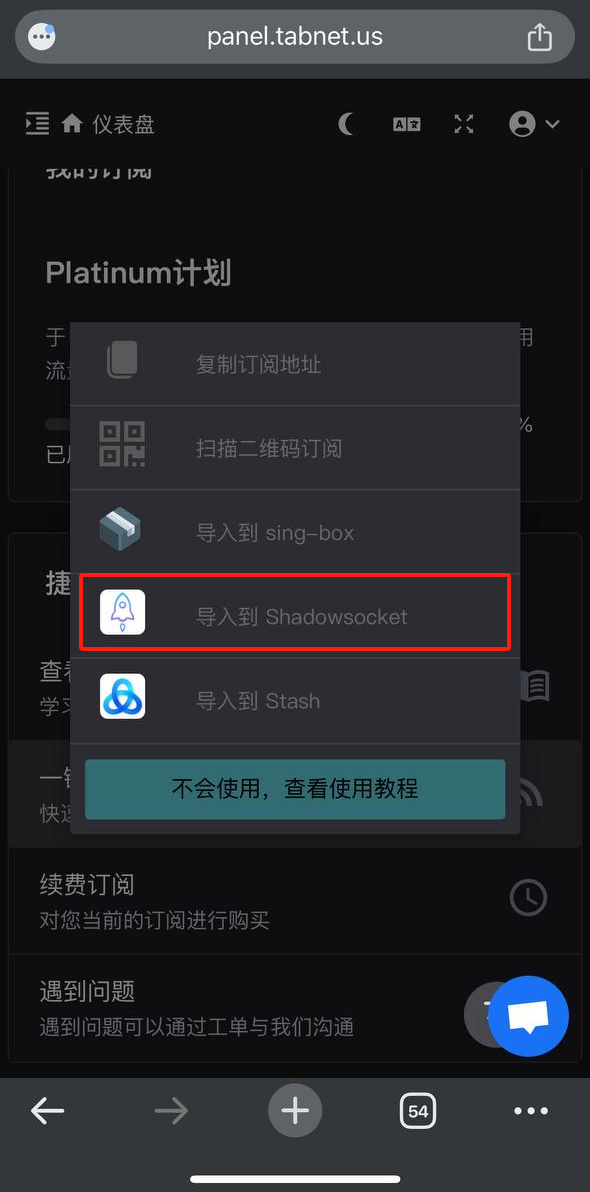
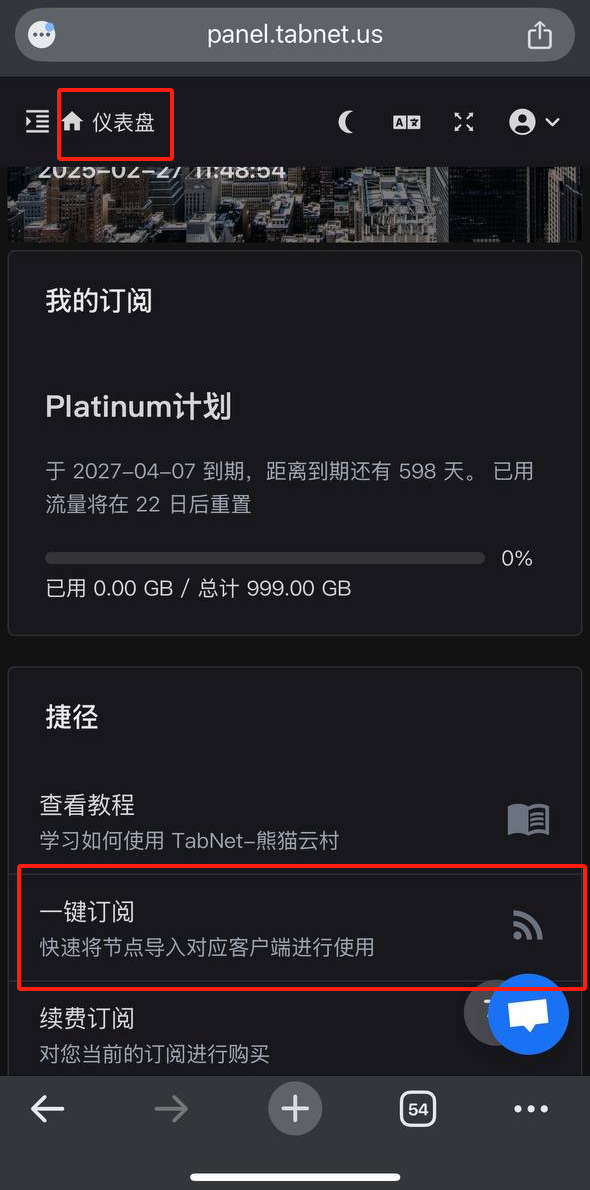
GITBOOK-48: No subject

diff --git a/android/clash-for-android-shi-yong-jiao-cheng.md b/android/clash-for-android-shi-yong-jiao-cheng.md
@@ -1,69 +1,94 @@
 # 📱 Clash for Android 使用教程
 
-{% hint style="success" %}
-**本教程适用于安卓、鸿蒙系统的平板及手机设备**
+## 目录
 
-该客户端仅支持Android 9 以上系统，但是也可能有BUG，不一定兼容市面上所有手机操作系统，如果以下客户端在您的手机系统无法使用，请更换其他安卓APP
-{% endhint %}
+
+
+***
+
+## 使用教程
 
 {% hint style="danger" %}
 请务必确保关闭并后台退出了其他代理软件（shadowsocks、VPN、V2rayN 等），安全软件与【国家反诈中心APP】，所有代理软件都是不能同时使用的且和众多安全软件冲突。
 {% endhint %}
 
-### 软件下载
+### 1. 系统要求
 
-👉 [大陆网盘下载](https://tagcloud.lanzouw.com/iokrd2hcglmb)（此网盘无需挂代理，大陆网络可以直接打开）
+* **适用于安卓、鸿蒙系统的平板及手机设备**
+* 仅支持 **Android 9 及以上版本**
+* 部分机型可能存在兼容性问题，如无法使用，请尝试更换其他 Android 客户端
 
-👉  [网盘下载02](https://share.feijipan.com/s/cjDro9sD)
+### 2. 应用下载
 
-<mark style="color:red;">下载APP后一定要记得安装！！！</mark>
+以下网盘无需挂代理，大陆网络可以直接打开
 
-### 导入订阅
+{% hint style="success" %}
+[网盘下载01](https://tagcloud.lanzouw.com/iokrd2hcglmb)
 
-打开APP后，点击主页的“配置”
+[网盘下载02](https://share.feijipan.com/s/cjDro9sD)
 
-<figure><img src="../.gitbook/assets/1.jpg" alt=""><figcaption><p>点击配置</p></figcaption></figure>
+[网盘下载03](https://yunkeyso.oss-cn-hongkong.aliyuncs.com/khd/yd/yd-clash-anz.zip)
+{% endhint %}
 
-点击右上角的“➕”号
+{% hint style="warning" %}
+下载完成后，请手动安装 APK 文件。
+{% endhint %}
 
-<figure><img src="../.gitbook/assets/2.jpg" alt=""><figcaption><p>点击+号</p></figcaption></figure>
-
-点击“从URL导入”
-
-<figure><img src="../.gitbook/assets/3.jpg" alt=""><figcaption><p>从URL导入</p></figcaption></figure>
+### 3. 导入订阅
 
 回到官网并登录：[https://hi.dmhosts.com](https://hi.dmhosts.com/)
 
-复制订阅地址 如下图
+Clash 支持两种方式导入订阅  [#shou-dong-dao-ru](clash-for-android-shi-yong-jiao-cheng.md#shou-dong-dao-ru "mention") 和 [#yi-jian-dao-ru](clash-for-android-shi-yong-jiao-cheng.md#yi-jian-dao-ru "mention")
 
-<div><figure><img src="../.gitbook/assets/0240424133728.png" alt="" width="216"><figcaption><p>1.仪表盘首页点击一键订阅</p></figcaption></figure> <figure><img src="../.gitbook/assets/4dc4e97b8206b6a29e7cd1d663a4d2f.png" alt="" width="217"><figcaption><p>2.复制订阅地址</p></figcaption></figure></div>
+#### 🔹 手动导入
 
-在APP上添加订阅，如下图所示，
+1. 复制订阅地址 如下图
 
-1. 名称：输入TabNet；
-2. URL：粘贴您拷贝的订阅链接；
-3. 自动更新：自动更新订阅的时间填写1440分钟；
-4. 点击右上角保存
+<div><figure><img src="../.gitbook/assets/image.png" alt=""><figcaption></figcaption></figure> <figure><img src="../.gitbook/assets/image (1).png" alt=""><figcaption></figcaption></figure></div>
+
+2. 打开APP后，点击主页的“配置”
+
+<figure><img src="../.gitbook/assets/1.jpg" alt=""><figcaption><p>点击配置</p></figcaption></figure>
+
+3. 点击右上角的“➕”号
+
+<figure><img src="../.gitbook/assets/2.jpg" alt=""><figcaption><p>点击+号</p></figcaption></figure>
+
+4. 点击“从URL导入”
+
+<figure><img src="../.gitbook/assets/3.jpg" alt=""><figcaption><p>从URL导入</p></figcaption></figure>
+
+5. 在APP上添加订阅，如下图所示，
+   1. 名称：输入TabNet；
+   2. URL：粘贴您拷贝的订阅链接；
+   3. 自动更新：自动更新订阅的时间填写1440分钟；
+   4. 点击右上角保存
 
 <figure><img src="../.gitbook/assets/6.jpg" alt=""><figcaption><p>请仔细按照步骤操作</p></figcaption></figure>
 
-选择加载后的配置，然后返回主界面
+6. 选择加载后的配置，然后返回主界面
 
 <figure><img src="../.gitbook/assets/7.jpg" alt=""><figcaption><p>选择配置点返回</p></figcaption></figure>
 
-### 开始使用
+#### 🔹 一键导入
+
+点击下方图片的选项即可自动跳转clash，并重复上方的步骤5和6
+
+<div><figure><img src="../.gitbook/assets/1755430156583.jpg" alt=""><figcaption></figcaption></figure> <figure><img src="../.gitbook/assets/1755430243700.jpg" alt=""><figcaption></figcaption></figure></div>
+
+### 4. 开始使用
 
 点击启动，如下图
 
 <figure><img src="../.gitbook/assets/8.jpg" alt=""><figcaption><p>点击红框的这一栏标签即为启动</p></figcaption></figure>
 
-{% hint style="warning" %}
+{% hint style="danger" %}
 第一次使用，会弹出连接请求弹窗，一定要点“确定”，点取消将会无法使用
 {% endhint %}
 
 <figure><img src="../.gitbook/assets/9.jpg" alt=""><figcaption><p>一定要点确定</p></figcaption></figure>
 
-### 切换节点
+### 5. 切换节点
 
 连接成功后就如下图所示，然后就可以进去代理界面去选择您想使用的节点了
 
@@ -73,4 +98,45 @@
 
 <figure><img src="../.gitbook/assets/11.jpg" alt=""><figcaption><p>手动选择自己所需节点</p></figcaption></figure>
 
+### 6. 测试连接
+
 这样试着打开 [www.YouTube.com](http://www.youtube.com/) 测试一下，如果油管可以打开就说明已经成功
+
+***
+
+## 更新订阅教程
+
+{% hint style="success" %}
+按照下方教程的操作即可实现手动更新订阅，获取最新节点
+{% endhint %}
+
+1. 确保当前处于 **未连接状态**
+
+{% hint style="danger" %}
+更新订阅时一定要是未连接状态，如果是链接状态可能会更新失败
+{% endhint %}
+
+<figure><img src="../.gitbook/assets/12.jpg" alt=""><figcaption><p>一定要是停止状态</p></figcaption></figure>
+
+2. 打开 Clash 界面，进入 **「配置（Profiles）」** 页面
+3. 找到需要更新的配置文件，点击右侧的 **刷新按钮** 更新订阅
+
+<figure><img src="../.gitbook/assets/13.jpg" alt=""><figcaption><p>请仔细按教程操作</p></figcaption></figure>
+
+***
+
+## 重置配置教程
+
+{% hint style="success" %}
+按照下方教程的操作即可实现手动更新订阅，获取最新节点
+{% endhint %}
+
+1. 确保当前处于 **未连接状态**
+
+{% hint style="danger" %}
+更新订阅时一定要是未连接状态，如果是链接状态可能会更新失败
+{% endhint %}
+
+<figure><img src="../.gitbook/assets/12.jpg" alt=""><figcaption><p>一定要是停止状态</p></figcaption></figure>
+
+2. 然后重新导入，参考 [#id-3.-dao-ru-ding-yue](clash-for-android-shi-yong-jiao-cheng.md#id-3.-dao-ru-ding-yue "mention")

diff --git a/windows/clash-for-windows-she-zhi-quan-ju-dai-li-jiao-cheng.md b/windows/clash-for-windows-she-zhi-quan-ju-dai-li-jiao-cheng.md
@@ -44,7 +44,7 @@ Clash for Windows 默认使用 **分流/规则模式**。\
 4. 从节点列表中选择你需要的代理节点
 5. 确认连接成功后，即可实现全局代理
 
-<figure><img src="../.gitbook/assets/image (1) (1).png" alt=""><figcaption></figcaption></figure>
+<figure><img src="../.gitbook/assets/image (1) (1) (1).png" alt=""><figcaption></figcaption></figure>
 
 ***
 
